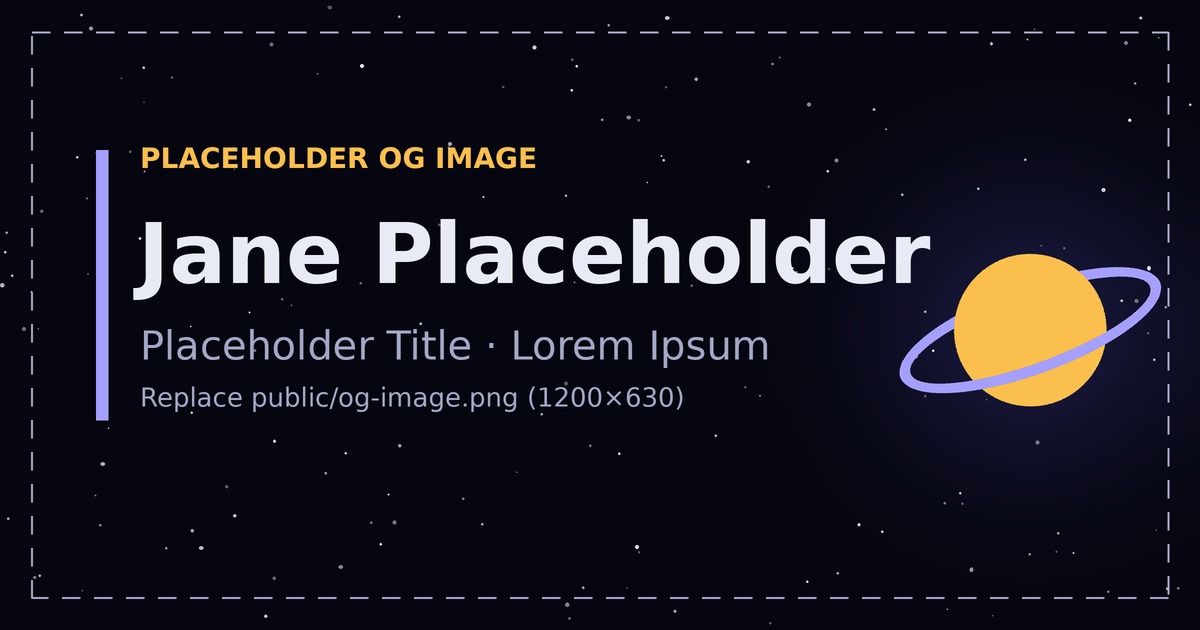
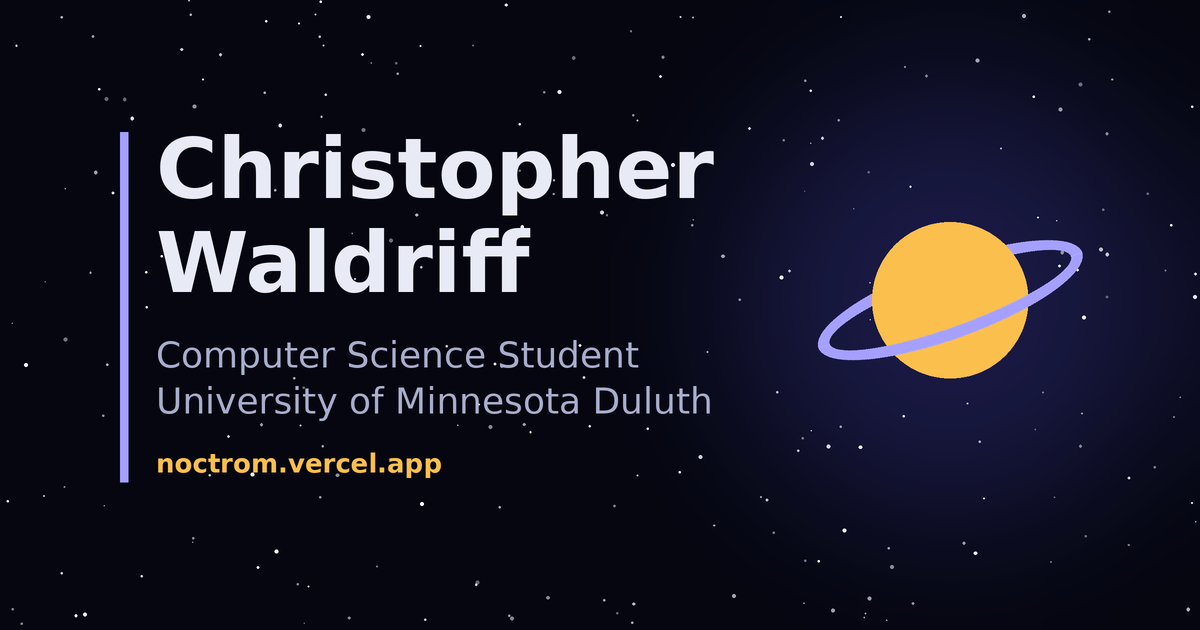
V0.78: Replace placeholder link-preview card with Chris's name and title

diff --git a/index.html b/index.html
@@ -52,7 +52,7 @@
     <meta property="og:image:height" content="630" />
     <meta
       property="og:image:alt"
-      content="Preview card for Christopher Waldriff's personal website: a dark starfield with a ringed planet"
+      content="Christopher Waldriff, Computer Science Student at the University of Minnesota Duluth, noctrom.vercel.app, on a dark starfield with a ringed planet"
     />
     <meta name="twitter:card" content="summary_large_image" />
     <meta name="twitter:image" content="https://noctrom.vercel.app/og-image.png" />
